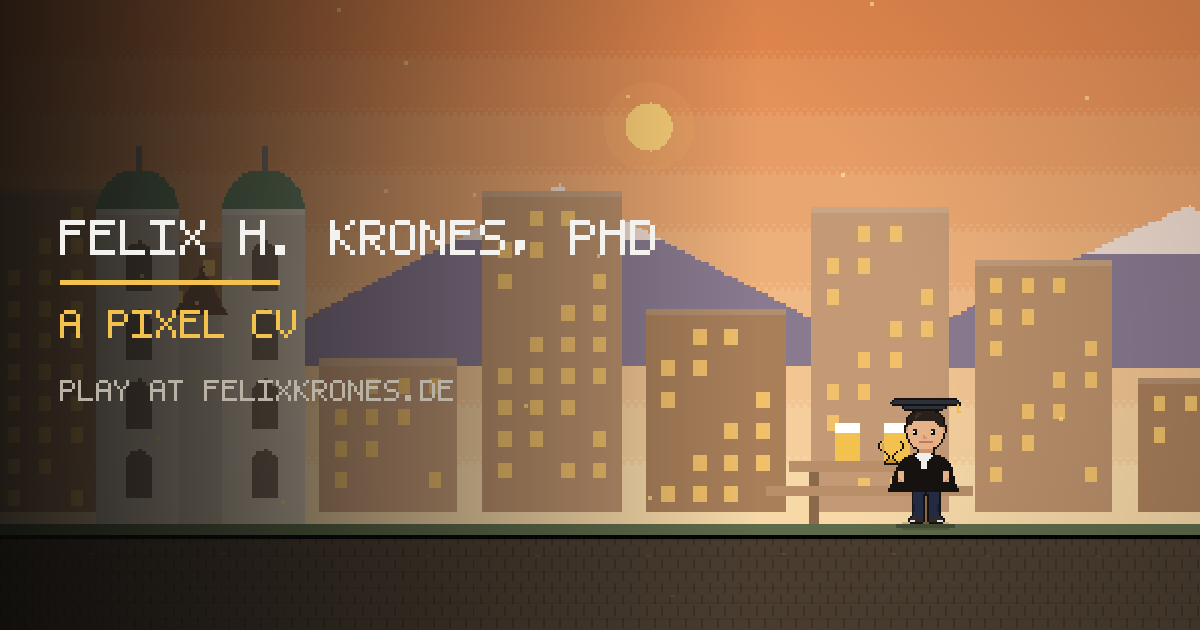
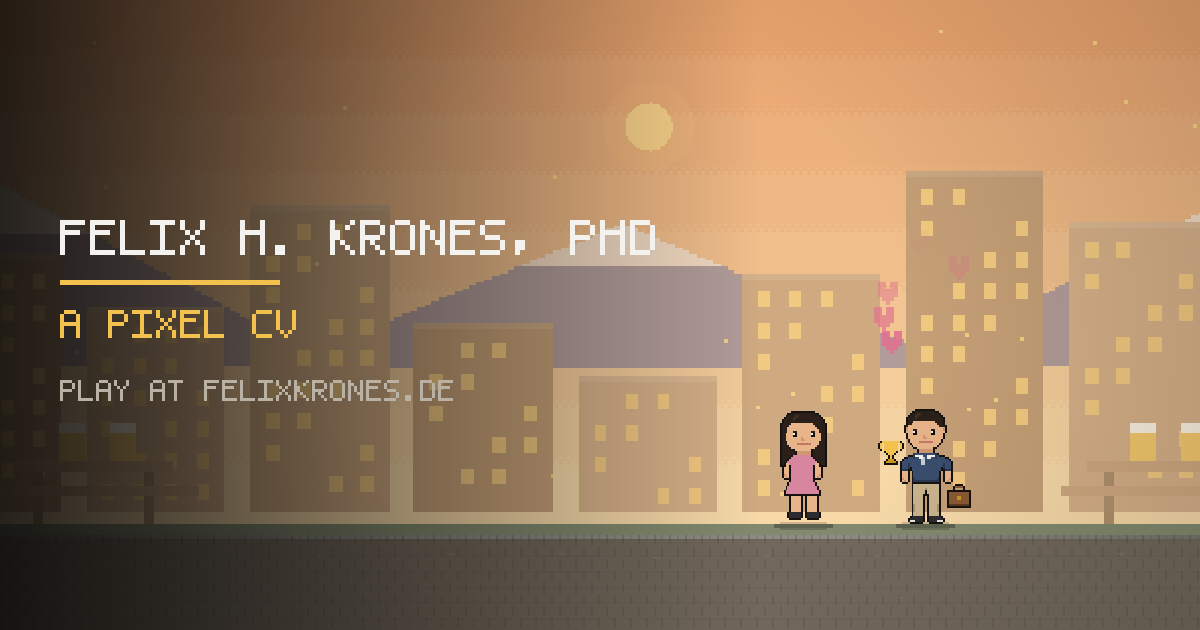
v16: outfits (uniform, student, Waterland smart casual), organisation in bubbles, lighter background, new preview image
Claude-Session: https://claude.ai/code/session_01JTSQ5HuiQb2UM85YB5h5vC

diff --git a/index.html b/index.html
@@ -194,8 +194,25 @@ const PAL = {
   Y:'#f2c14e', y:'#c99423',            // gold / dark gold
   R:'#c8493f', G:'#4f8f5a', B:'#3d6fb4', b:'#8a5a33', a:'#5c3a1f',
   g:'#9aa2ae', h:'#c6ccd2', w:'#ffffff', q:'#d8869f', u:'#6f4a8e', c:'#7fc0dd',
-  L:'#a9d6e5', l:'#e0f0f6', z:'#5a8a3c', v:'#e07b39', x:'#8b1e2d', i:'#009246', j:'#ce2b37'
+  L:'#a9d6e5', l:'#e0f0f6', z:'#5a8a3c', v:'#e07b39', x:'#8b1e2d', i:'#009246', j:'#ce2b37',
+  e:'#2f3d63', f:'#1f2945',            // Luftwaffe beret
+  Q:'#3a4d6e', Z:'#2a3852',            // quarter zip / shade
+  A:'#c9b48c', X:'#a8936c'             // chinos / shade
 };
+/* Flecktarn camouflage for the uniform: a fixed pattern per pixel */
+const CAMO = ['#6b7a4c', '#6b7a4c', '#4a5634', '#7e6443', '#2c2f24', '#8d9863'];
+const camo = (x, y) => CAMO[Math.floor(hash(Math.floor(x/2)*31 + Math.floor(y/2)*97 + 5) * 6) % 6];
+/* draw a sprite, recolouring some letters through fn(x, y, letter) */
+function drawRemap(grid, ox, oy, letters, fn){
+  for (let y=0; y<grid.length; y++){
+    const row = grid[y];
+    for (let x=0; x<row.length; x++){
+      const ch = row[x];
+      const c = letters.includes(ch) ? fn(x, y, ch) : PAL[ch];
+      if (c) r(ox + x, oy + y, 1, 1, c);
+    }
+  }
+}
 
 function draw(grid, ox, oy, flip){
   for (let y=0; y<grid.length; y++){
@@ -379,6 +396,15 @@ const WEAR = {
       'NGGGG.................GGGGN.',
       '.NGG...................GGN..',
       '..NN...................NN...'
+    ] },
+  beret: { dx:3, dy:-3, g:[
+      '.......NNNNNNNNNNNN.......',
+      '....NNNeeeeeeeeeeeeNNN....',
+      '..NNeeeeeeeeeeeeeeeeeeNN..',
+      '.NeeeeeeeeeeeeeeeeeeeeeeN.',
+      'NeYYeeeeeeeeeeeeeeeeeeeefN',
+      'NeYYeeeeeeeeeeeeeeeeeeefN.',
+      '.NNNNNNNNNNNNNNNNNNNNNNN..'
     ] },
   airforce: { dx:4, dy:-3, g:[
       '........NNNNNNNN........',
@@ -633,15 +659,15 @@ const LEVEL = [
   { id:'ober',  kind:'ground', len:1500, theme:'village',   name:'OBERSCHEFFLENZ', years:'1993-2004', sub:'BORN AND RAISED IN THE ODENWALD', map:'ober' },
   { id:'oster', kind:'ground', len:1000, theme:'town',      name:'OSTERBURKEN',    years:'2004-2012', sub:'SECONDARY SCHOOL', map:'ober' },
   { id:'germ',  kind:'ground', len:1150,  theme:'airbase',   name:'GERMERSHEIM',    years:'2012-2013', sub:'GERMAN AIRFORCE', map:'germ' },
-  { id:'ka1',   kind:'ground', len:1000, theme:'karlsruhe', name:'KARLSRUHE',      years:'2013-2019', sub:'KIT, INDUSTRIAL ENGINEERING', map:'ka' },
+  { id:'ka1',   kind:'ground', len:1000, theme:'karlsruhe', name:'KARLSRUHE',      years:'2013-2015', sub:'KIT, INDUSTRIAL ENGINEERING', map:'ka' },
   { id:'f_ral', kind:'flight', len:820,  route:'FRA > RDU', sub:'EXCHANGE SEMESTER' },
-  { id:'ral',   kind:'ground', len:820,  theme:'raleigh',   name:'RALEIGH, USA',   years:'2015',      sub:'NC STATE UNIVERSITY', map:'ral' },
+  { id:'ral',   kind:'ground', len:820,  theme:'raleigh',   name:'RALEIGH, USA',   years:'2015-2015',      sub:'NC STATE UNIVERSITY', map:'ral' },
   { id:'f_bk',  kind:'flight', len:620,  route:'RDU > FRA', sub:'BACK TO KARLSRUHE' },
   { id:'ka2',   kind:'ground', len:1950, theme:'karlsruhe', name:'KARLSRUHE',      years:'2016-2019', sub:'', map:'ka' },
   { id:'zh',    kind:'ground', len:1850, theme:'zurich',    name:'ZURICH',         years:'2019-2026', sub:'', map:'zh' },
   { id:'f_mck', kind:'flight', len:2200, route:'MCKINSEY CLIENT WORK', sub:'', mck:true },
   { id:'ox',    kind:'ground', len:1850, theme:'oxford',    name:'OXFORD',         years:'2021-2026', sub:'', mck:true, map:'ox' },
-  { id:'muc',   kind:'ground', len:1400, theme:'munich',    name:'MUNICH',         years:'2026',      sub:'WATERLAND PRIVATE EQUITY', map:'muc' },
+  { id:'muc',   kind:'ground', len:1400, theme:'munich',    name:'MUNICH',         years:'2026-',      sub:'WATERLAND PRIVATE EQUITY', map:'muc' },
   { id:'end',   kind:'ground', len:560,  theme:'munich',    name:'',               years:'',          sub:'', map:'muc' }
 ];
 let acc = 0;
@@ -675,8 +701,8 @@ const BOXES = [
   { seg:'ober',  off:900,  t:'edu',  k:'station', y:98,  year:'2000-2004', tag:'PRIMARY SCHOOL',   role:'Primary school',   desc:'', org:'Grundschule', loc:'Oberschefflenz', icon:'satchel', wear:'satchel', fx:'grow1' },
   { seg:'oster', off:410,  t:'edu',  k:'station', y:96,  year:'2004-2012', tag:'SECONDARY SCHOOL', role:'Secondary school', desc:'', org:'GTO', loc:'Osterburken', icon:'backpack', wear:'backpack', fx:'grow2' },
   { seg:'oster', off:800,  t:'edu',  k:'degree',  y:94,  year:'2012',      tag:'ABITUR 1.3',       role:'Abitur',           desc:'Grade 1.3', org:'GTO', loc:'Osterburken', icon:'scroll' },
-  { seg:'germ',  off:470,  t:'work', k:'station', y:98,  year:'2012-2013', tag:'MILITARY SERVICE', role:'Military service', desc:'Voluntary service', org:'German airforce', loc:'Germersheim', icon:'wings', wear:'airforce' },
-  { seg:'ka1',   off:400,  t:'edu',  k:'station', y:94,  year:'2013-2016', tag:'B.SC. STUDIES',    role:'B.Sc.',            desc:'Industrial Engineering', org:'KIT', loc:'Karlsruhe', icon:'hardhat', wear:'hardhat' },
+  { seg:'germ',  off:470,  t:'work', k:'station', y:98,  year:'2012-2013', tag:'MILITARY SERVICE', role:'Military service', desc:'Voluntary service', org:'German airforce', loc:'Germersheim', icon:'wings', wear:'uniform' },
+  { seg:'ka1',   off:400,  t:'edu',  k:'station', y:94,  year:'2013-2016', tag:'B.SC. STUDIES',    role:'B.Sc.',            desc:'Industrial Engineering', org:'KIT', loc:'Karlsruhe', icon:'hardhat', wear:['student','hardhat'] },
   { seg:'ka1',   off:720,  t:'edu',  k:'honour',  y:100, year:'2013-2019', tag:'SCHOLARSHIP',      role:'Scholarship',      desc:'', org:'Konrad-Adenauer Foundation', loc:'Germany', icon:'medal' },
   { seg:'ral',   off:300,  t:'edu',  k:'station', y:98,  year:'2015-2015', tag:'EXCHANGE SEMESTER',role:'Exchange semester',desc:'Finance, aerospace', org:'NC State University', loc:'Raleigh, USA', icon:'rocket' },
   { seg:'ral',   off:600,  t:'edu',  k:'honour',  y:94,  year:'2015',      tag:'GPA 4.0',          role:'Exchange semester', desc:'GPA 4.0', org:'NC State University', loc:'Raleigh, USA', icon:'star' },
@@ -691,28 +717,28 @@ const BOXES = [
   { seg:'zh',    off:520,  t:'edu',  k:'honour',  y:100, year:'2019',      tag:'THESIS 6.0',       role:'Thesis',           desc:'Grade 6.0', org:'ETH', loc:'Zurich', icon:'star' },
   { seg:'zh',    off:760,  t:'edu',  k:'degree',  y:94,  year:'2019',      major:true, tag:'M.SC. 1.3',        role:'M.Sc.',            desc:'Grade 1.3', org:'KIT', loc:'Karlsruhe', icon:'diploma' },
   { seg:'ox',    off:840 , t:'work', k:'station', y:100, year:'2022-2022', tag:'SENIOR CONSULTANT',role:'Senior consultant',desc:'Restructuring', org:'Independent', loc:'Europe', icon:'chart' },
-  { seg:'zh',    off:1020, t:'work', k:'station', y:98,  year:'2019-2026', major:true, tag:'MCKINSEY',         role:'Engagement Manager / Principal', desc:'', org:'McKinsey & QuantumBlack', loc:'Zurich', icon:'suit', wear:'suit', fx:'mck_on', flags:true },
-  { seg:'ox',    off:280,  t:'edu',  k:'station', y:92,  year:'2021-2026', tag:'DPHIL STUDIES',    role:'DPhil',            desc:'Multimodal AI in medicine', org:'University of Oxford', loc:'UK', icon:'book', fx:'mck_off' },
-  { seg:'ox',    off:640,  t:'edu',  k:'honour',  y:96,  year:'2022-2024', tag:'SCHOLARSHIPS',     role:'Scholarship',      desc:'', org:'Friedrich Naumann + Shirley', loc:'Oxford, UK', icon:'medal' },
+  { seg:'zh',    off:1020, t:'work', k:'station', y:98,  year:'2019-2026', major:true, tag:'ENGAGEMENT MANAGER / PRINCIPAL',         role:'Engagement Manager / Principal', desc:'', org:'McKinsey & QuantumBlack', loc:'Zurich', icon:'suit', wear:'suit', fx:'mck_on', flags:true },
+  { seg:'ox',    off:280,  t:'edu',  k:'station', y:92,  year:'2021-2026', tag:'DPHIL STUDIES',    role:'DPhil',            desc:'Multimodal AI in medicine', org:'University of Oxford', loc:'UK', icon:'book', wear:'student', fx:'mck_off' },
+  { seg:'ox',    off:640,  t:'edu',  k:'honour',  y:96,  year:'2022-2024', tag:'SCHOLARSHIP',     role:'Scholarship',      desc:'', org:'Friedrich Naumann + Shirley', loc:'Oxford, UK', icon:'medal' },
   { seg:'ox',    off:1240, t:'edu',  k:'honour',  y:98,  year:'2024',      tag:'1ST PLACE',        role:'1st place',        desc:'ML challenge', org:'PhysioNet', loc:'Karlsruhe', icon:'trophy', wear:'trophy' },
   { seg:'ox',    off:1560, t:'edu',  k:'degree',  y:94,  year:'2026',      major:true, tag:'DPHIL AWARDED',    role:'DPhil',            desc:'Awarded', org:'University of Oxford', loc:'UK', icon:'gown', wear:'gown' },
-  { seg:'muc',   off:400,  t:'work', k:'station', y:96,  year:'2026-',     major:true, tag:'WATERLAND',        role:'AI & Data Lead / Portfolio management', desc:'', org:'Waterland Private Equity', loc:'Munich', icon:'briefcase', wear:'briefcase', fx:'mck_off' }
+  { seg:'muc',   off:400,  t:'work', k:'station', y:96,  year:'2026-',     major:true, tag:'AI & DATA LEAD / PORTFOLIO MANAGEMENT',        role:'AI & Data Lead / Portfolio management', desc:'', org:'Waterland Private Equity', loc:'Munich', icon:'briefcase', wear:['quarterzip','briefcase'], fx:'mck_off' }
 ];
 BOXES.forEach((b,i)=>{ b.i=i; b.off = Math.round(b.off*UK); b.x = wx(b.seg, b.off); b.y = Math.round(GROUND - (166 - b.y)*UK); });
 
 /* Volunteering: no boxes, just small things Felix helps with on the way. Walking past collects them. */
 const HELPS = [
   { seg:'oster', off:560,  year:'2011-2012', tag:'FUND-RAISERS',     role:'Organiser of fund-raisers', desc:'', org:'', loc:'Awasa, Ethiopia', prop:'jar' },
-  { seg:'germ',  off:960,  year:'2012-2018', tag:'LOCAL PARTY HEAD', role:'Head of political party group', desc:'', org:'', loc:'Schefflenz', prop:'lectern' },
-  { seg:'ka1',   off:880,  year:'2013-2018', tag:'CLUB TREASURER',   role:'Treasurer soccer club', desc:'', org:'SC Oberschefflenz', loc:'Schefflenz', prop:'ball' },
-  { seg:'ox',    off:450,  year:'2021-2024', tag:'STUDENT REP',      role:'PhD student representative', desc:'', org:'University of Oxford', loc:'UK', prop:'megaphone' },
-  { seg:'ox',    off:1400, year:'2025-',     tag:'DEPUTY CHAIRMAN',  role:'Deputy district chairman', desc:'', org:'Political party group', loc:'Neckar-Odenwald-Kreis', prop:'lectern' },
+  { seg:'germ',  off:960,  year:'2012-2018', tag:'PARTY GROUP HEAD', role:'Head of political party group', desc:'', org:'', loc:'Schefflenz', prop:'lectern' },
+  { seg:'ka1',   off:880,  year:'2013-2018', tag:'SOCCER CLUB TREASURER', role:'Treasurer soccer club', desc:'', org:'SC Oberschefflenz', loc:'Schefflenz', prop:'ball' },
+  { seg:'ox',    off:450,  year:'2021-2024', tag:'PHD STUDENT REP', role:'PhD student representative', desc:'', org:'University of Oxford', loc:'UK', prop:'megaphone' },
+  { seg:'ox',    off:1400, year:'2025-',     tag:'DEPUTY DISTRICT CHAIRMAN', role:'Deputy district chairman', desc:'', org:'Political party group', loc:'Neckar-Odenwald-Kreis', prop:'lectern' },
   { seg:'muc',   off:700,  year:'2026-',     tag:'START-UP MENTOR',  role:'Mentor to start-ups', desc:'', org:'Hack Nation', loc:'', prop:'laptop' }
 ];
 HELPS.forEach((h,i)=>{ h.i = i; h.x = wx(h.seg, Math.round(h.off*UK)); h.t = 'work'; h.k = 'volunteer'; });
 /* Story moments without a box: the return to QuantumBlack during the DPhil (not a separate overview row) */
 const EVENTS = [
-  { seg:'ox', off:1040, fx:'mck_on', lines:['BACK AT QUANTUMBLACK', 'ENGAGEMENT MANAGER', 'DPHIL NOW PART-TIME'], col:'#9fc3ea' }
+  { seg:'ox', off:1040, fx:'mck_on', wear:'suit', lines:['BACK AT QUANTUMBLACK', 'ENGAGEMENT MANAGER', 'DPHIL NOW PART-TIME'], col:'#9fc3ea' }
 ];
 EVENTS.forEach(e=>{ e.x = wx(e.seg, Math.round(e.off*UK)); });
 const FLYSTARS = [];   // no longer used, kept so older code paths stay valid
@@ -736,7 +762,7 @@ function reset(){
   S = {
     t:0, x:208, y:GROUND, vy:0, onGround:true, facing:1,
     kid:2, visible:false,
-    worn:{ hat:null, body:null, back:null, hand:null, hold:null },
+    worn:{ hat:null, body:null, legs:null, back:null, hand:null, hold:null },
     stars:0, bar:[],
     caption:null, capX:0, capT:0,
     plate:null, plateT:0,
@@ -757,12 +783,17 @@ function reset(){
 reset();
 const SH = () => SPRH[S.kid];
 
+/* outfits: school backpacks, Bundeswehr uniform, student again, suit at McKinsey, gown, Waterland smart casual */
 function wear(name){
+  if (Array.isArray(name)){ name.forEach(wear); return; }
   const w = S.worn;
   if (name==='satchel' || name==='backpack') w.back = name;
-  else if (name==='airforce' || name==='hardhat' || name==='ethcap') w.hat = name;
-  else if (name==='suit') w.body = name;
-  else if (name==='gown'){ w.body='gown'; w.hat='mortar'; w.back=null; }
+  else if (name==='uniform'){ w.body='uniform'; w.legs='camo'; w.hat='beret'; w.back=null; }
+  else if (name==='student'){ w.body=null; w.legs=null; w.hat=null; w.back='backpack'; }
+  else if (name==='hardhat' || name==='ethcap') w.hat = name;
+  else if (name==='suit'){ w.body='suit'; w.legs=null; w.hat=null; w.back=null; }
+  else if (name==='quarterzip'){ w.body='quarterzip'; w.legs='chinos'; w.hat=null; w.back=null; }
+  else if (name==='gown'){ w.body='gown'; w.legs=null; w.hat='mortar'; w.back=null; }
   else if (name==='trophy') w.hold = name;
   else if (name==='briefcase') w.hand = name;
 }
@@ -895,12 +926,12 @@ function step(dt){
   /* volunteering: collected by walking past */
   for (const h of HELPS){
     if (h.got || S.x < h.x) continue;
-    h.got = true; S.stars++; S.btnGlow = 1; S.helpPop = { h, t:0 }; sfx('wear');
+    h.got = true; S.stars++; S.btnGlow = 1; S.helpPop = { h:{ lines:[h.tag, h.org || h.loc || '', h.year].filter(Boolean) }, t:0 }; sfx('wear');
     popSparks(h.x + 12, GROUND - 40, '#e0708f', 8, 80);
   }
   for (const e of EVENTS){
     if (e.done || S.x < e.x) continue;
-    e.done = true; if (e.fx==='mck_on') S.mck = true;
+    e.done = true; if (e.fx==='mck_on') S.mck = true; if (e.wear) wear(e.wear);
     S.helpPop = { h:{ lines:e.lines }, t:0, col:e.col, dur:3.2 }; sfx('wear');
   }
   if (S.helpPop){ S.helpPop.t += dt; if (S.helpPop.t > (S.helpPop.dur || 2.4)) S.helpPop = null; }
@@ -951,7 +982,7 @@ function onHit(b){
   popSparks(b.x+16, b.y, BOXSTYLE[b.t].a, 14, 140);
   sfx('hit');
   S.stars++;
-  const item = { icon:b.icon, name:b.tag, year:b.year, x:b.x-2, y:b.y-10, t:0, phase:0, sc:3,
+  const item = { icon:b.icon, name:b.tag, org:b.org || b.loc || '', year:b.year, x:b.x-2, y:b.y-10, t:0, phase:0, sc:3,
     target: () => b.wear ? [S.x-18, S.y - SH() + 14] : [W - 40 + camX(), 6],
     arrive: () => {
       S.btnGlow = 1;
@@ -1474,8 +1505,19 @@ function drawFelix(px, feetY){
   if (S.facing < 0){ ctx.scale(-1, 1); }
   ctx.translate(-16, 0);
   const w = S.worn;
-  draw(legs, 0, 22 + torso.length);
-  if (w.body && WEAR[w.body] && S.kid===0) draw(WEAR[w.body].g, WEAR[w.body].dx, WEAR[w.body].dy); else draw(torso, 0, 22);
+  if (w.legs==='camo') drawRemap(legs, 0, 22 + torso.length, 'Pp', (x,y,ch) => ch==='p' ? '#3c4630' : camo(x, y + 40));
+  else if (w.legs==='chinos') drawRemap(legs, 0, 22 + torso.length, 'Pp', (x,y,ch) => ch==='p' ? PAL.X : PAL.A);
+  else draw(legs, 0, 22 + torso.length);
+  if (w.body==='uniform' && S.kid===0){
+    drawRemap(torso, 0, 22, 'TtU', (x,y,ch) => ch==='t' ? '#3c4630' : camo(x, y));
+    r(12, 22, 8, 2, '#4d5a38'); r(15, 23, 2, 3, '#3c4630');                    // collar
+    r(24, 26, 3, 1, '#15120f'); r(24, 27, 3, 1, '#c8493f'); r(24, 28, 3, 1, '#f2c14e');   // flag on the sleeve
+  } else if (w.body==='quarterzip' && S.kid===0){
+    drawRemap(torso, 0, 22, 'TtU', (x,y,ch) => ch==='t' ? PAL.Z : ch==='U' ? (y < 6 ? '#c6ccd2' : PAL.Q) : PAL.Q);
+    r(11, 22, 4, 2, '#f4f2ee'); r(17, 22, 4, 2, '#f4f2ee'); r(13, 24, 2, 1, '#f4f2ee'); r(17, 24, 2, 1, '#f4f2ee');   // shirt collar
+    r(10, 22, 12, 1, PAL.Q); r(10, 22, 1, 3, PAL.Z); r(21, 22, 1, 3, PAL.Z);   // zip collar of the jumper
+  } else if (w.body && WEAR[w.body] && S.kid===0) draw(WEAR[w.body].g, WEAR[w.body].dx, WEAR[w.body].dy);
+  else draw(torso, 0, 22);
   if (w.back && WEAR[w.back]) draw(WEAR[w.back].g, WEAR[w.back].dx, WEAR[w.back].dy);
   draw(HEAD, 0, 0);
   if (w.hat && WEAR[w.hat]) draw(WEAR[w.hat].g, WEAR[w.hat].dx, WEAR[w.hat].dy);
@@ -1511,7 +1553,7 @@ function render(){
     if (S.flyBlend > 0){ ctx.globalAlpha = S.flyBlend*0.8; scaled(0, GROUND, UK, ()=>clouds(cam/UK, .6, '#ffffff', 96, 170, 7)); ctx.globalAlpha = 1; }
   }
   /* soft veil over the scenery, so boxes, items and the figures stand out */
-  ctx.globalAlpha = 0.26; r(0, 0, W, GROUND, theme.sky[1]); ctx.globalAlpha = 0.18; r(0, GROUND, W, H-GROUND, '#e9e4da'); ctx.globalAlpha = 1;
+  ctx.globalAlpha = 0.36; r(0, 0, W, GROUND, theme.sky[1]); ctx.globalAlpha = 0.26; r(0, GROUND, W, H-GROUND, '#e9e4da'); ctx.globalAlpha = 1;
 
   for (const fl of MCK_FLAGS){
     const sx = fl.x - cam; if (sx<-30||sx>W+30) continue;
@@ -1554,10 +1596,11 @@ function render(){
     const sx = f.x - cam, sc = f.sc || 1, half = 6*sc;
     if (f.phase < 2){
       ctx.globalAlpha = .45; disc(sx+18, f.y+18, 28, '#ffffff'); ctx.globalAlpha = 1;
-      const nm = f.name || '', yr = f.year || '', w = Math.max(tw2(nm), tw2(yr))+20, hh = yr ? 44 : 24, nx = clamp(sx+18 - w/2, 6, W-w-6), ny = f.y - 16 - hh;
+      /* bubble: what, where, when */
+      const lines = [[f.name || '', '#f4f2ee'], [f.org || '', '#b9b2a4'], [f.year || '', '#f2c14e']].filter(l => l[0]);
+      const w = Math.max(...lines.map(l=>tw2(l[0])))+20, hh = 8 + lines.length*20, nx = clamp(sx+18 - w/2, 6, W-w-6), ny = Math.max(4, f.y - 16 - hh);
       panelBox(nx, ny, w, hh, 'rgba(10,12,17,.86)'); r(nx, ny+hh-1, w, 1, 'rgba(255,255,255,.08)');
-      text2(nm, nx+10, ny+6, '#f4f2ee', 1);
-      if (yr) text2(yr, nx+10, ny+26, '#f2c14e', 1);
+      lines.forEach((l,i)=> text2(l[0], nx+10, ny+6+i*20, l[1], 1));
     }
     drawIcon(ICON[f.icon], sx+18-half, f.y+18-half, sc);
   }
@@ -1566,7 +1609,7 @@ function render(){
     const lines = hp.h.lines || [hp.h.tag, hp.h.year];
     const w = Math.max(...lines.map(l=>tw2(l))) + 20, hh = 8 + lines.length*20, nx = clamp(S.x - cam + 44, 6, W-w-6), ny = S.y - SH() - 4 - (lines.length-2)*20 - Math.min(hp.t, 0.3)*20;
     ctx.globalAlpha = a; panelBox(nx, ny, w, hh, 'rgba(10,12,17,.86)'); r(nx, ny+hh-1, w, 1, col);
-    lines.forEach((l,i)=> text2(l, nx+10, ny+6+i*20, i===lines.length-1 ? col : '#f4f2ee', 1)); ctx.globalAlpha = 1;
+    lines.forEach((l,i)=> text2(l, nx+10, ny+6+i*20, i===lines.length-1 ? col : i===0 ? '#f4f2ee' : '#b9b2a4', 1)); ctx.globalAlpha = 1;
   }
   for (const p of S.sparks){ ctx.globalAlpha = Math.min(1, p.life*2); r(p.x-cam, p.y, 3, 3, p.col); ctx.globalAlpha = 1; }
   for (const p of S.pops){
